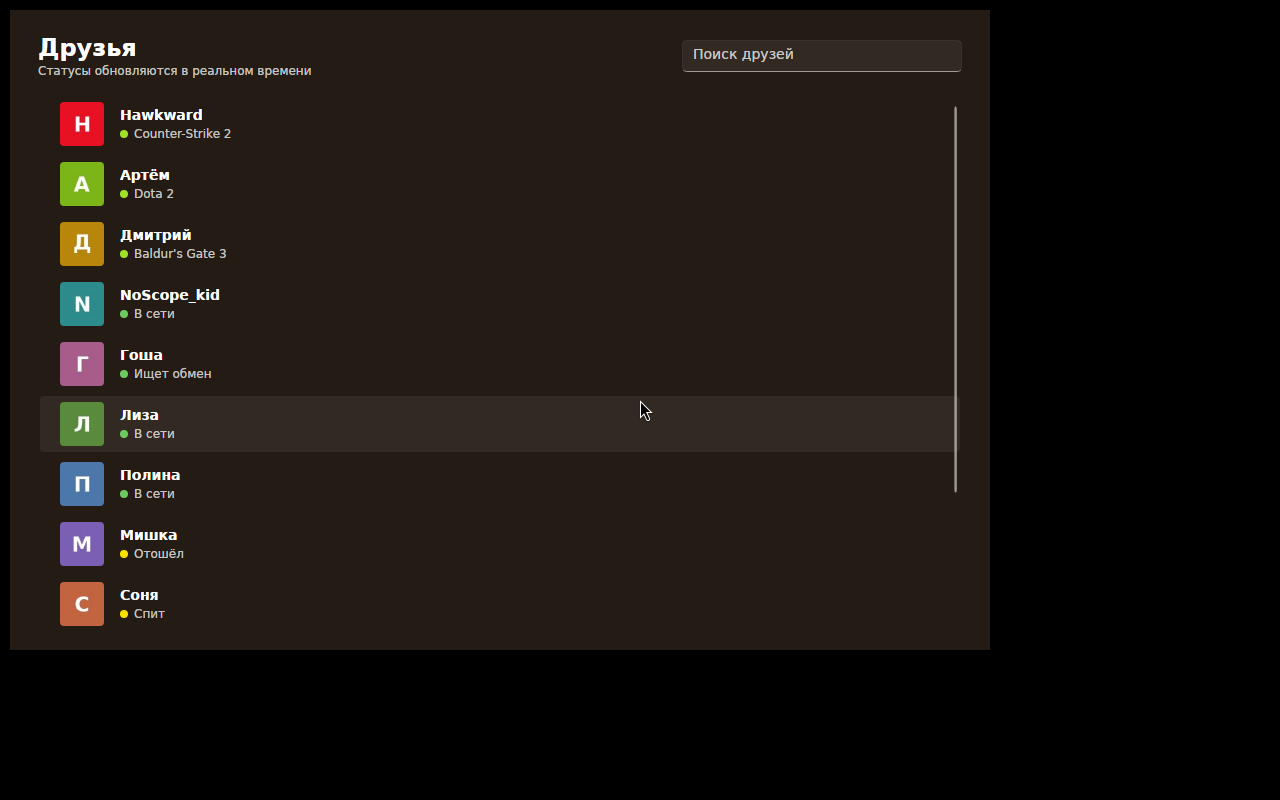
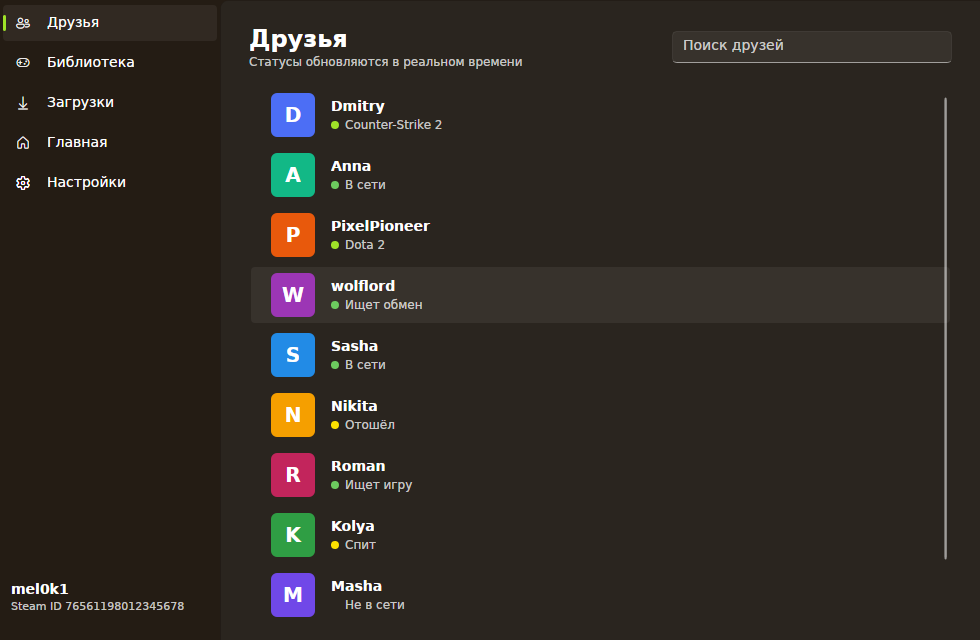
add screenshot tool and refresh readme

diff --git a/tools/Screenshots/Program.cs b/tools/Screenshots/Program.cs
@@ -1,0 +1,318 @@
+using System.Globalization;
+using System.Net.Http;
+using Avalonia;
+using Avalonia.Controls;
+using Avalonia.Controls.ApplicationLifetimes;
+using Avalonia.Media;
+using Avalonia.Media.Imaging;
+using Avalonia.Metadata;
+using Avalonia.Threading;
+using Miseria.App;
+using Miseria.App.Services;
+using Miseria.App.Theming;
+using Miseria.App.ViewModels;
+using Miseria.App.Views;
+using Miseria.Core;
+using Microsoft.Extensions.DependencyInjection;
+
+namespace Screenshots;
+
+internal static class Program
+{
+    private static readonly (uint AppId, string Name)[] LibraryApps =
+    [
+        (730, "Counter-Strike 2"),
+        (570, "Dota 2"),
+        (292030, "The Witcher 3: Wild Hunt"),
+        (1245620, "ELDEN RING"),
+        (1091500, "Cyberpunk 2077"),
+        (548430, "Deep Rock Galactic"),
+        (1145360, "Hades"),
+        (413150, "Stardew Valley"),
+        (367520, "Hollow Knight"),
+        (632470, "Disco Elysium"),
+        (504230, "Celeste"),
+        (588650, "Dead Cells"),
+        (105600, "Terraria"),
+        (646570, "Slay the Spire"),
+        (427520, "Factorio"),
+        (294100, "RimWorld"),
+        (264710, "Subnautica"),
+        (227300, "Euro Truck Simulator 2"),
+        (220, "Half-Life 2"),
+        (620, "Portal 2"),
+    ];
+
+    private static readonly (string Name, FriendPresence Presence, string? Game)[] Friends =
+    [
+        ("Dmitry", FriendPresence.InGame, "Counter-Strike 2"),
+        ("Anna", FriendPresence.Online, null),
+        ("PixelPioneer", FriendPresence.InGame, "Dota 2"),
+        ("wolflord", FriendPresence.LookingToTrade, null),
+        ("Sasha", FriendPresence.Online, null),
+        ("Nikita", FriendPresence.Away, null),
+        ("Roman", FriendPresence.LookingToPlay, null),
+        ("Kolya", FriendPresence.Snooze, null),
+        ("Masha", FriendPresence.Offline, null),
+        ("Vladimir", FriendPresence.Offline, null),
+    ];
+
+    private static readonly Color[] AvatarColors =
+    [
+        Color.Parse("#4C6EF5"),
+        Color.Parse("#12B886"),
+        Color.Parse("#E8590C"),
+        Color.Parse("#9C36B5"),
+        Color.Parse("#228BE6"),
+        Color.Parse("#F59F00"),
+        Color.Parse("#C2255C"),
+        Color.Parse("#2F9E44"),
+        Color.Parse("#7048E8"),
+        Color.Parse("#0CA678")
+    ];
+
+    public static int Main(string[] args)
+    {
+        var outDir = Path.GetFullPath(args.Length > 0 ? args[0] : "docs/screenshots");
+        Directory.CreateDirectory(outDir);
+
+        var sandbox = Path.Combine(Path.GetTempPath(), "miseria-shots");
+        Directory.CreateDirectory(Path.Combine(sandbox, "config"));
+        Directory.CreateDirectory(Path.Combine(sandbox, "data"));
+        Directory.CreateDirectory(Path.Combine(sandbox, "capsules"));
+        Environment.SetEnvironmentVariable("XDG_CONFIG_HOME", Path.Combine(sandbox, "config"));
+        Environment.SetEnvironmentVariable("XDG_DATA_HOME", Path.Combine(sandbox, "data"));
+
+        App.ScreenshotMode = true;
+
+        var exitCode = 2;
+        var builder = AppBuilder.Configure<App>().UsePlatformDetect().LogToTrace();
+        builder.AfterSetup(_ => Dispatcher.UIThread.Post(async () =>
+        {
+            try
+            {
+                await RunAsync(outDir);
+                exitCode = 0;
+            }
+            catch (Exception ex)
+            {
+                Console.Error.WriteLine(ex);
+            }
+            finally
+            {
+                if (Application.Current?.ApplicationLifetime is IClassicDesktopStyleApplicationLifetime lifetime)
+                    lifetime.Shutdown();
+            }
+        }, DispatcherPriority.ApplicationIdle));
+
+        builder.StartWithClassicDesktopLifetime([], ShutdownMode.OnExplicitShutdown);
+        return exitCode;
+    }
+
+    private static async Task RunAsync(string outDir)
+    {
+        var services = new ServiceCollection()
+            .AddSingleton<SettingsStore>()
+            .AddSingleton<InstallStore>()
+            .AddSingleton<ManifestStore>()
+            .AddSingleton<SessionStore>()
+            .AddSingleton<SteamSession>()
+            .AddSingleton<AvatarCache>()
+            .AddSingleton<AppIconCache>()
+            .AddSingleton<ThemeService>()
+            .AddSingleton<LogonViewModel>()
+            .AddSingleton<MainViewModel>()
+            .AddSingleton<FriendsViewModel>()
+            .AddSingleton<HomeViewModel>()
+            .AddSingleton<LibraryViewModel>()
+            .AddSingleton<DownloadViewModel>()
+            .AddSingleton<SettingsViewModel>()
+            .BuildServiceProvider();
+
+        var theme = services.GetRequiredService<ThemeService>();
+        var logon = services.GetRequiredService<LogonViewModel>();
+        var main = services.GetRequiredService<MainViewModel>();
+        var library = main.Library;
+        var friends = main.Friends;
+        var download = main.Download;
+        var home = main.Home;
+
+        var capsules = await DownloadCapsulesAsync(Path.Combine(Path.GetTempPath(), "miseria-shots", "capsules"));
+
+        library.ReplaceApps(LibraryApps.Select(a => new AppSnapshot(a.AppId, a.Name, "game", null)).ToArray());
+
+        foreach (var item in library.Apps)
+        {
+            if (capsules.TryGetValue(item.AppId, out var file))
+            {
+                item.Capsule = new Bitmap(file);
+                item.HasCapsule = true;
+            }
+
+            item.IsInstalled = item.AppId is 730 or 570 or 413150;
+        }
+
+        friends.ReplaceFriends(Enumerable.Range(0, Friends.Length).Select(i => 76561198000000000UL + (ulong)i).ToArray());
+
+        for (var i = 0; i < friends.Friends.Count && i < Friends.Length; i++)
+        {
+            var item = friends.Friends[i];
+            var (name, presence, game) = Friends[i];
+            item.UpdateFrom(new FriendSnapshot(item.SteamId, name, presence, null, game));
+            item.Avatar = CreateAvatar(name, i);
+            item.HasAvatar = true;
+        }
+
+        download.HasInstalls = true;
+        download.UpdatesStatus = "Проверено игр: 3";
+        download.Updates.Add(new UpdateItem(730, "Counter-Strike 2", "Обновление доступно · 1,2 ГБ · файлов: 152", true));
+        download.Updates.Add(new UpdateItem(570, "Dota 2", "Актуальная версия · ветка public", false));
+        download.Updates.Add(new UpdateItem(413150, "Stardew Valley", "Актуальная версия · ветка public", false));
+        download.HasContent = true;
+        download.IsPicking = false;
+        download.IsActive = true;
+        download.IsPreparing = false;
+        download.AppName = "Cyberpunk 2077";
+        download.ProgressPercent = 47.3;
+        download.ProgressText = "6,4 ГБ из 13,6 ГБ";
+        download.SpeedText = "42,7 МБ/с";
+        download.StatusText = "r6/config/settings.ini";
+        download.DestinationText = "/home/user/Miseria/games/1091500";
+
+        home.Initialize(new AccountSnapshot("mel0k1", 76561198012345678, "RU", false));
+
+        logon.Username = "mel0k1";
+        logon.Password = "correct-horse";
+
+        theme.Apply(AppTheme.Light);
+        await Shot(new LogonWindow(logon), Path.Combine(outDir, "logon-light.png"));
+
+        theme.Apply(AppTheme.Kiwi);
+        await Shot(new LogonWindow(logon), Path.Combine(outDir, "logon-kiwi.png"));
+
+        theme.Apply(AppTheme.Dark);
+        var window = new MainWindow(main);
+        window.Show();
+        await PumpAsync();
+
+        window.NavigateTo("friends");
+        await PumpAsync();
+        await CaptureAsync(window, Path.Combine(outDir, "friends-dark.png"));
+
+        window.NavigateTo("library");
+        library.IsGrid = true;
+        await PumpAsync();
+        await CaptureAsync(window, Path.Combine(outDir, "library-grid-dark.png"));
+
+        library.IsGrid = false;
+        await PumpAsync();
+        await CaptureAsync(window, Path.Combine(outDir, "library-list-dark.png"));
+
+        window.NavigateTo("downloads");
+        await PumpAsync();
+        await CaptureAsync(window, Path.Combine(outDir, "downloads-dark.png"));
+
+        window.NavigateTo("home");
+        await PumpAsync();
+        await CaptureAsync(window, Path.Combine(outDir, "home-dark.png"));
+
+        theme.Apply(AppTheme.Kiwi);
+        window.NavigateTo("friends");
+        await PumpAsync();
+        await CaptureAsync(window, Path.Combine(outDir, "friends-kiwi.png"));
+
+        window.Close();
+    }
+
+    private static async Task Shot(Window window, string path)
+    {
+        window.Show();
+        await PumpAsync();
+        await CaptureAsync(window, path);
+        window.Close();
+    }
+
+    private static async Task PumpAsync()
+    {
+        for (var i = 0; i < 12; i++)
+            await Dispatcher.UIThread.InvokeAsync(() => { }, DispatcherPriority.Background);
+
+        await Task.Delay(200);
+    }
+
+    private static async Task CaptureAsync(Window window, string path)
+    {
+        await Dispatcher.UIThread.InvokeAsync(() =>
+        {
+            var scale = window.RenderScaling;
+            using var bitmap = new RenderTargetBitmap(
+                new PixelSize(
+                    (int)Math.Ceiling(window.Bounds.Width * scale),
+                    (int)Math.Ceiling(window.Bounds.Height * scale)),
+                new Vector(96, 96) * scale);
+
+            bitmap.Render(window);
+            bitmap.Save(new FileStream(path, FileMode.Create), new PngBitmapEncoderOptions());
+        });
+
+        await Task.Delay(30);
+    }
+
+    private static Bitmap CreateAvatar(string name, int index)
+    {
+        const int size = 44;
+        var brush = new SolidColorBrush(AvatarColors[index % AvatarColors.Length]);
+        var bitmap = new RenderTargetBitmap(new PixelSize(size, size), new Vector(96, 96));
+
+        using (var context = bitmap.CreateDrawingContext())
+        {
+            context.FillRectangle(brush, new Rect(0, 0, size, size), 6f);
+            var initial = name.Length > 0 ? char.ToUpperInvariant(name[0]).ToString() : "?";
+            var text = new FormattedText(
+                initial,
+                CultureInfo.InvariantCulture,
+                FlowDirection.LeftToRight,
+                new Typeface(FontFamily.Default, FontStyle.Normal, FontWeight.Bold),
+                20,
+                new SolidColorBrush(Colors.White));
+            var point = new Point(
+                (size - text.Width) / 2,
+                (size - text.Height) / 2);
+            context.DrawText(text, point);
+        }
+
+        return bitmap;
+    }
+
+    private static async Task<Dictionary<uint, string>> DownloadCapsulesAsync(string directory)
+    {
+        Directory.CreateDirectory(directory);
+
+        using var http = new HttpClient { Timeout = TimeSpan.FromSeconds(20) };
+        var map = new Dictionary<uint, string>();
+
+        foreach (var (appId, _) in LibraryApps)
+        {
+            var file = Path.Combine(directory, appId + ".jpg");
+
+            if (!File.Exists(file))
+            {
+                try
+                {
+                    var bytes = await http.GetByteArrayAsync(
+                        $"https://cdn.cloudflare.steamstatic.com/steam/apps/{appId}/capsule_231x87.jpg");
+                    await File.WriteAllBytesAsync(file, bytes);
+                }
+                catch
+                {
+                    continue;
+                }
+            }
+
+            if (File.Exists(file))
+                map[appId] = file;
+        }
+
+        return map;
+    }
+}

diff --git a/README.md b/README.md
@@ -14,6 +14,7 @@ Early development. What works now:
 - Steam Guard prompts (email code, authenticator code) shown in the logon window
 - Friends list with live presence: online, away, snooze, looking to trade or play, in-game with the game name, avatars cached on disk
 - Library of owned apps: licenses are resolved to app ids through PICS product info, names, types and icons are shown with search
+- Library grid view: capsule artwork straight from the Steam CDN with a disk cache, switchable between the compact list and a Steam-style capsule grid
 - Downloads through SteamContent: depots are resolved from app info, manifests and depot keys are fetched, chunks are downloaded from the Steam CDN in parallel, decrypted and verified, with progress, speed and cancel
 - Branch picker for downloads: every depot branch is listed with its build id, password-protected beta branches unlock through the private beta PICS request
 - Family View awareness: locked accounts are detected at logon and the session can be unlocked with the Family View PIN through Steam's Parental service
@@ -23,6 +24,8 @@ Early development. What works now:
 - Session status and logoff (logoff deletes the stored session)
 - Four themes: Light, Dark, Crimson and Kiwi
 - Theme selection persisted to disk
+- Home dashboard: account card, apps count, installed games, friends and friends online
+- Navigation pane footer with the account name and Steam id
 
 The first logon on a new device may ask for a Steam Guard code. The refresh token and guard data are stored unencrypted in `~/.config/Miseria/session.json` (`%APPDATA%\Miseria` on Windows) with file permissions limited to the current user on Linux and macOS. Deleting the file or logging out forces the password prompt again.
 
@@ -36,9 +39,13 @@ The first logon on a new device may ask for a Steam Guard code. The refresh toke
 | --- | --- |
 | ![Friends list in the Dark theme](docs/screenshots/friends-dark.png) | ![Friends list in the Kiwi theme](docs/screenshots/friends-kiwi.png) |
 
-| Library (Dark) | Downloads (Dark) |
+| Library grid (Dark) | Library list (Dark) |
 | --- | --- |
-| ![Library with app icons and play buttons](docs/screenshots/library-dark.png) | ![Download branch picker](docs/screenshots/downloads-dark.png) |
+| ![Library capsule grid in the Dark theme](docs/screenshots/library-grid-dark.png) | ![Library list in the Dark theme](docs/screenshots/library-list-dark.png) |
+
+| Downloads (Dark) | Home (Dark) |
+| --- | --- |
+| ![Download progress and updates](docs/screenshots/downloads-dark.png) | ![Home dashboard](docs/screenshots/home-dark.png) |
 
 ## Build
 
@@ -48,6 +55,12 @@ Requires the .NET 10 SDK.
 git clone https://github.com/mel0k1/Miseria.git
 cd Miseria
 dotnet run --project src/Miseria.App
+```
+
+The screenshots in `docs/screenshots` are regenerated headlessly with Xvfb:
+
+```
+xvfb-run -a dotnet run --project tools/Screenshots -- docs/screenshots
 ```
 
 ## Themes
@@ -72,6 +85,16 @@ src/Miseria.App     Avalonia UI: MVVM view models, FluentAvalonia shell, theming
 `Miseria.Core` is the only place that touches SteamKit2 types. The UI talks to it through plain events and records: `LogOnAsync`, `GuardRequested`, `LoggedIn`, `LogonFailed`, `LoggedOut`, `FriendsLoaded`, `FriendUpdated`, `LibraryLoaded`, `SteamDownloader` with `GetBranchesAsync` / `DownloadAsync` / `CheckUpdateAsync`, the `Started`, `Progress`, `Finished` events and the `ManifestRecord` / `UpdateCheck` records, and `UnlockFamilyViewAsync` for the Family View PIN.
 
 Downloads are written to `~/Miseria/games/<appid>`, resumed by file size when restarted and registered in `%APPDATA%\Miseria\installs.json`, which drives the Play buttons in the library. Every install also writes `%APPDATA%\Miseria\manifests\appmanifest_<appid>.json` with the depot manifest ids and per-file hashes; the updates tab diffs it against Steam on request and only replaces files whose hash actually changed.
+
+## Roadmap
+
+The long-term goal is a central hub client like Steam itself. Planned next:
+
+- Profile: own avatar, persona name, level, country and Steam id on the home page
+- Chat: friend messaging through SteamKit2 unified messages
+- Marketplace: market listings, price history and buy/sell orders through the Steam Web API (SteamKit2 has no market handler, so this goes over the web endpoints)
+- Trading platform: trade offers with inventory browsing through the Steam Web API
+- Community: profiles, groups and activity feed
 
 ## Notes
 
